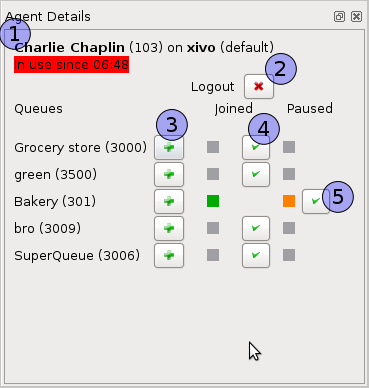
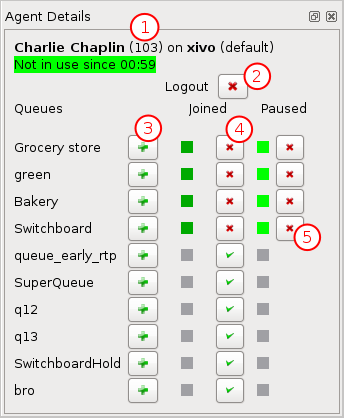
remove limitation of agent details xlet

diff --git a/source/contact_center/supervision/supervision.rst b/source/contact_center/supervision/supervision.rst
@@ -232,8 +232,6 @@ Display advanced informations of an agent and enable to login/logoff, add/remove
 4. Pause/Unpause button for given queue
 5. Add/Remove agent for given queue
 
-You can't add/remove this agent to queue1/queue6 because there is hard linked in configuration (WEBI)
-
 
 Queue members
 ^^^^^^^^^^^^^
